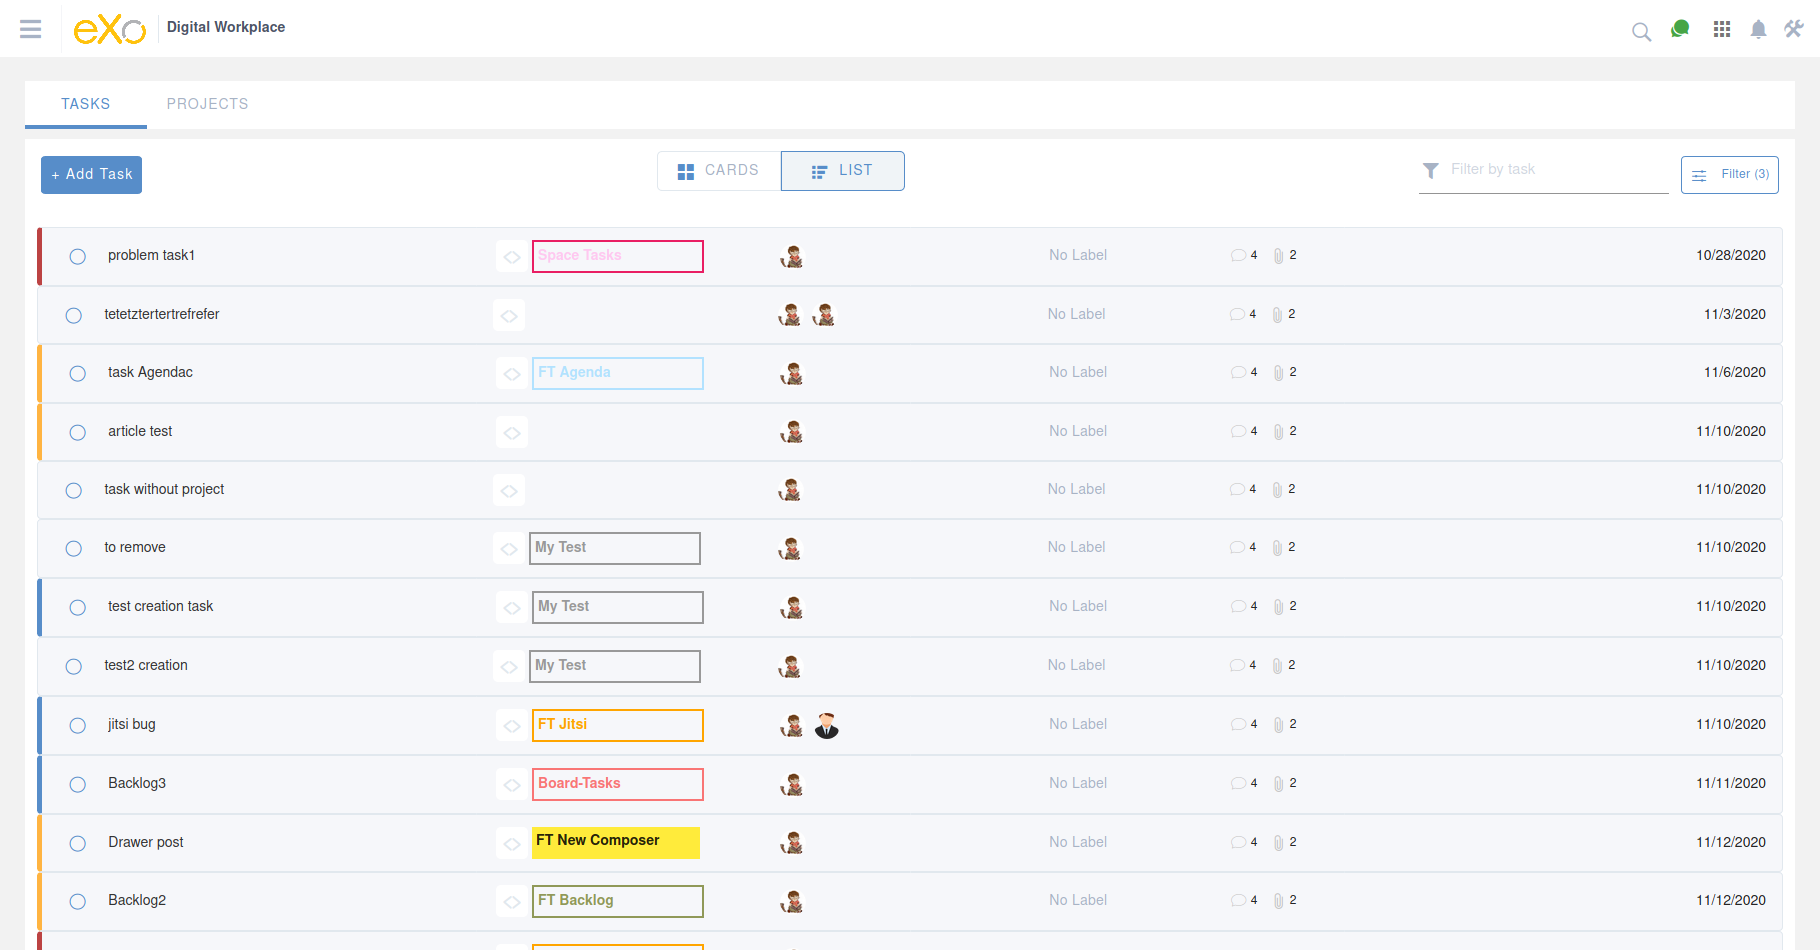
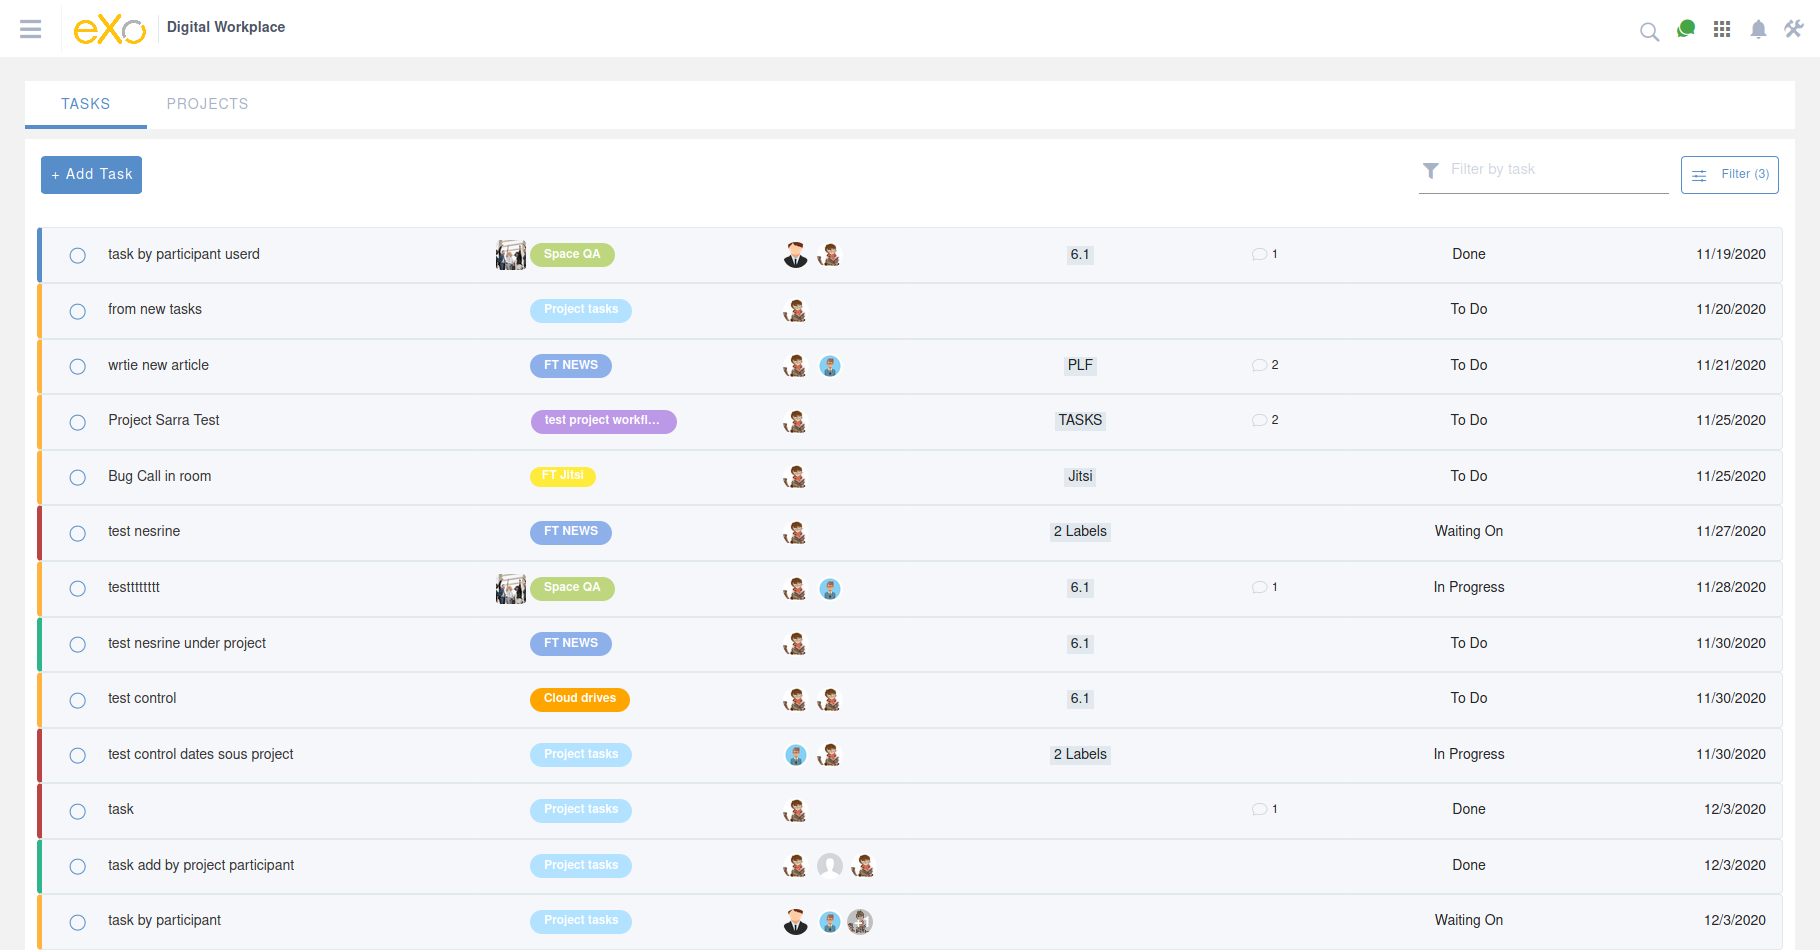
TAsks doc: remove CARDS view from TASKS tab

diff --git a/docs/ManageTasks.rst b/docs/ManageTasks.rst
@@ -48,26 +48,21 @@ My Tasks
 
 TASKS tab is where you can find the tasks assigned to you and tasks where you are set as coworker.
 
-The list of my tasks could be displayed in two views: List or Cards.
+The list of my tasks could be displayed in a LIST view.
 
 |NewTask00|
 
 The LIST view displays in a list form the tasks I created either in a project or not, my assigned tasks and those I am set as coworker.
 
-|NewTask01|
-
-CARDS view of my tasks displays the same tasks in a different view. Each task is represented by a card.
-
-Both views, i.e. list and cards display the same details: 
+These details are shown for each task:
 
 - Task's title
-- Task's ID
-- Task's project if it belongs to a project, otherwise display the label 'No project'
-- The avatars of participants to the project i.e. the assignee and coworkers if they exist
-- The number of associated labels if they exist otherwise, display the label 'No label'
-- The number of comments and attachments 
-- The task's status in its project, otherwise display the label 'No status'
-- The task's due date if it is set, otherwise display the label 'No due date'
+- Task's project if it belongs to a project, otherwise nothing is displayed
+- The avatars of participants to the task i.e. the assignee and coworkers if they exist
+- The associated label if or the number of assiciated labels and they appears in a popup on hover |NewTask01|
+- The number of comments if they exist 
+- The task's status in its project, otherwise display nothing
+- The task's due date if it is set, otherwise display nothing
 
 When a task has many coworkers, you just need to click on the +x label over the avatar to open a drawer with the whole list of assignee and coworkers.
 
@@ -1288,7 +1283,7 @@ it on your own.
 .. |image82| image:: images/taskmanagement/edit_status.png
 .. |image83| image:: images/taskmanagement/delete_status.png
 .. |NewTask00| image:: images/NewTask/TasksList.png
-.. |NewTask01| image:: images/NewTask/TasksCARDS.png
+.. |NewTask01| image:: images/NewTask/LabelsOnHOver.png
 .. |NewTask02| image:: images/NewTask/ProejctCARDS.png
 .. |NewTask03| image:: images/NewTask/piechart.png
 .. |NewTask04| image:: images/NewTask/AddProjectdrawer.png
